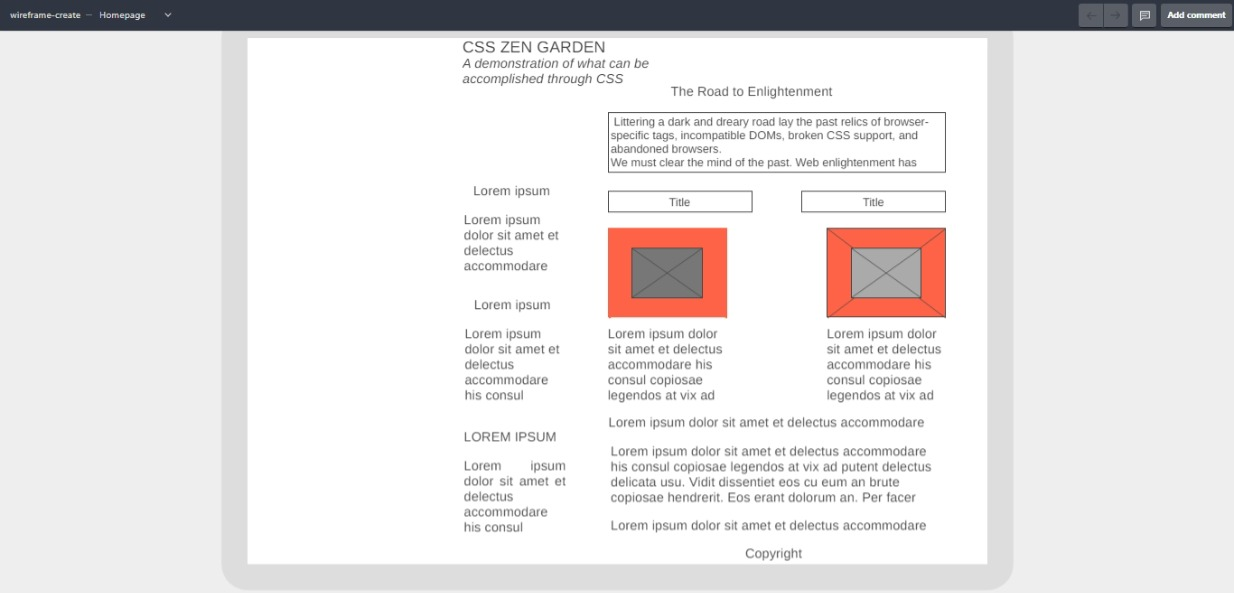
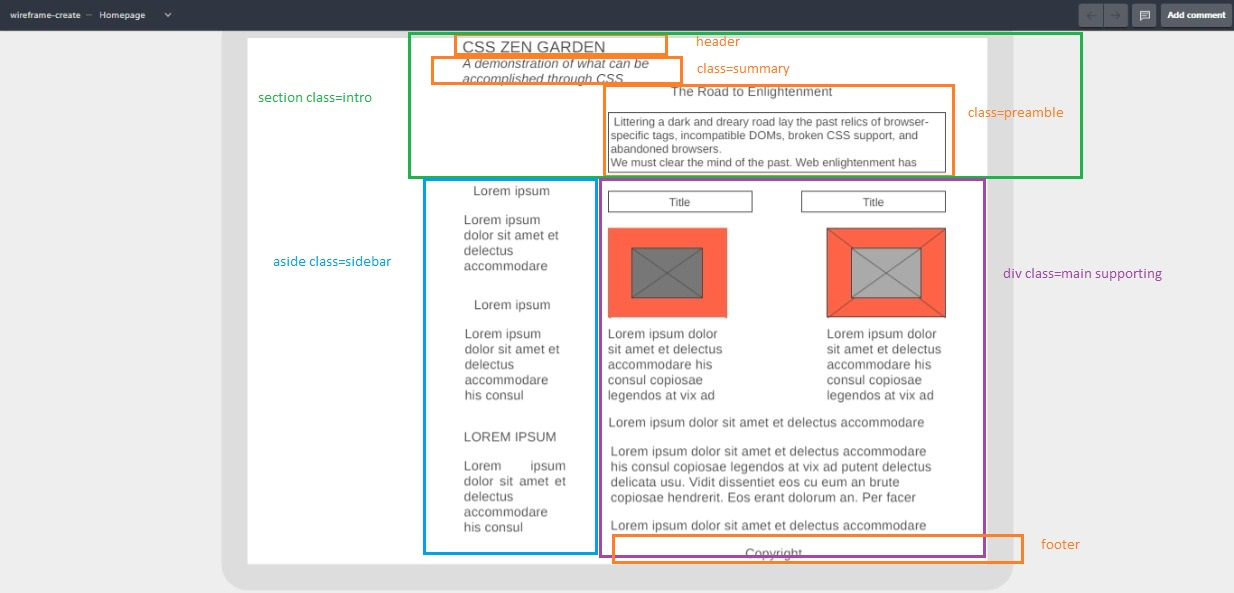
fix small responsive

Changed region(s): [[0.2156, 0.0304, 0.893, 0.9713], [0.8006, 0.4553, 0.9546, 0.4857]]

diff --git a/scss/partials/_layout.scss b/scss/partials/_layout.scss
@@ -5,70 +5,132 @@
     @include breakpoint(large){
     display: grid;
     grid-template-columns: repeat(3, 1fr);
-    width: 80%;
+    width: 100%;
    
     grid-template-areas: "intro intro intro"
                           "sidebar main main";
+                          .intro{
+                            grid-area: intro;
+                            display: grid;
+                            grid-template-columns: repeat(3, 1fr);
+                            grid-template-areas: "header header ."
+                                                  "summary summary ."
+                                                  ". preamble preamble";
+                            &>header{
+                              grid-area: header;
+                              border: 1px solid red;
+                              width: 100%;
+                            }
+                            &>.summary{
+                              grid-area: summary;
+                              border: 1px solid blue;
+                              width: 100%;
+                            }
+                            &>.preamble{
+                              grid-area: preamble;
+                              border: 1px solid green;
+                            }
+                          }
+                          .sidebar{
+                            grid-area: sidebar;
+                          }
+                          .main{
+                            grid-area: main;
+                            display: grid;
+                            grid-template-columns: repeat(2, 1fr);
+                            grid-template-areas: "explanation participation"
+                                                  "benefits requirements"
+                                                  "footer footer";
+                            &.explanation{
+                              grid-area: explanation;
+                            }
+                            &.participation{
+                              grid-area: participation;
+                            }
+                            &.benefits{
+                              grid-area: benefits;
+                            }
+                            &.requirements{
+                              grid-area: requirements;
+                            }
+                            &>footer{
+                              grid-area: footer;
+                              text-align: center;
+                            }
+                          }
+
+
     }
     @include breakpoint(medium){
-      display: block;
+      display: grid;
+      grid-template-columns: 1fr;
+   
+    grid-template-areas: "intro"
+                        "main"
+                        "sidebar";
    
     }
     @include breakpoint(small){
-    display: block;
-    margin-top: 0%;
+    display: grid;
+    grid-template-columns: 1fr;
+   
+    grid-template-areas: "intro"
+                        "main"
+                        "sidebar";
+                        .intro{
+                          grid-area: intro;
+                          display: grid;
+                          grid-template-columns: 1fr;
+                          grid-template-areas: "header"
+                          "summary"
+                          "preamble";
+                          &>header{
+                            grid-area: header;
+                            border: 1px solid red;
+                            width: 100%;
+                          }
+                          &>.summary{
+                            grid-area: summary;
+                            border: 1px solid blue;
+                            width: 100%;
+                          }
+                          &>.preamble{
+                            grid-area: preamble;
+                            border: 1px solid green;
+                          }
+                        }
+                        .sidebar{
+                          grid-area: sidebar;
+                        }
+                        .main{
+                          grid-area: main;
+                          display: grid;
+                          grid-template-columns: 1fr;
+                          grid-template-areas: "explanation"
+                          "participation"
+                                                "benefits"
+                                                "requirements"
+                                                "footer";
+                          &.explanation{
+                            grid-area: explanation;
+                          }
+                          &.participation{
+                            grid-area: participation;
+                          }
+                          &.benefits{
+                            grid-area: benefits;
+                          }
+                          &.requirements{
+                            grid-area: requirements;
+                          }
+                          &>footer{
+                            grid-area: footer;
+                            text-align: center;
+                          }
+                        }
   
     }
   }
-  .intro{
-    grid-area: intro;
-    display: grid;
-    grid-template-columns: repeat(3, 1fr);
-    grid-template-areas: "header header ."
-                          "summary summary ."
-                          ". preamble preamble";
-    &>header{
-      grid-area: header;
-      border: 1px solid red;
-      width: 70%;
-    }
-    &>.summary{
-      grid-area: summary;
-      border: 1px solid blue;
-      width: 70%;
-    }
-    &>.preamble{
-      grid-area: preamble;
-      border: 1px solid green;
-    }
-  }
-  .sidebar{
-    grid-area: sidebar;
-  }
-  .main{
-    grid-area: main;
-    display: grid;
-    grid-template-columns: repeat(2, 1fr);
-    grid-template-areas: "explanation participation"
-                          "benefits requirements"
-                          "footer footer";
-    &.explanation{
-      grid-area: explanation;
-    }
-    &.participation{
-      grid-area: participation;
-    }
-    &.benefits{
-      grid-area: benefits;
-    }
-    &.requirements{
-      grid-area: requirements;
-    }
-    &>footer{
-      grid-area: footer;
-      text-align: center;
-    }
-  }
-
+    
 }
 

diff --git a/css/styles.css b/css/styles.css
@@ -1,73 +1,115 @@
 @supports (display: grid) {
-  .page-wrapper {
-    display: grid;
-    grid-template-columns: repeat(3, 1fr);
-    width: 80%;
-    grid-template-areas: "intro intro intro" "sidebar main main";
+  @media (max-width: 1500px) {
+    .page-wrapper {
+      display: grid;
+      grid-template-columns: repeat(3, 1fr);
+      width: 100%;
+      grid-template-areas: "intro intro intro" "sidebar main main";
+    }
+    .page-wrapper .intro {
+      grid-area: intro;
+      display: grid;
+      grid-template-columns: repeat(3, 1fr);
+      grid-template-areas: "header header ." "summary summary ." ". preamble preamble";
+    }
+    .page-wrapper .intro > header {
+      grid-area: header;
+      border: 1px solid red;
+      width: 100%;
+    }
+    .page-wrapper .intro > .summary {
+      grid-area: summary;
+      border: 1px solid blue;
+      width: 100%;
+    }
+    .page-wrapper .intro > .preamble {
+      grid-area: preamble;
+      border: 1px solid green;
+    }
+    .page-wrapper .sidebar {
+      grid-area: sidebar;
+    }
+    .page-wrapper .main {
+      grid-area: main;
+      display: grid;
+      grid-template-columns: repeat(2, 1fr);
+      grid-template-areas: "explanation participation" "benefits requirements" "footer footer";
+    }
+    .page-wrapper .main.explanation {
+      grid-area: explanation;
+    }
+    .page-wrapper .main.participation {
+      grid-area: participation;
+    }
+    .page-wrapper .main.benefits {
+      grid-area: benefits;
+    }
+    .page-wrapper .main.requirements {
+      grid-area: requirements;
+    }
+    .page-wrapper .main > footer {
+      grid-area: footer;
+      text-align: center;
+    }
   }
   @media (max-width: 800px) {
     .page-wrapper {
-      display: block;
+      display: grid;
+      grid-template-columns: 1fr;
+      grid-template-areas: "intro" "main" "sidebar";
     }
   }
   @media (max-width: 360px) {
     .page-wrapper {
-      display: block;
-      margin-top: 0%;
+      display: grid;
+      grid-template-columns: 1fr;
+      grid-template-areas: "intro" "main" "sidebar";
     }
-  }
-
-  .intro {
-    grid-area: intro;
-    display: grid;
-    grid-template-columns: repeat(3, 1fr);
-    grid-template-areas: "header header ." "summary summary ." ". preamble preamble";
-  }
-  .intro > header {
-    grid-area: header;
-    border: 1px solid red;
-    width: 80%;
-    padding: 5px;
-  }
-  .intro > .summary {
-    grid-area: summary;
-    border: 1px solid blue;
-    width: 80%;
-    padding: 5px;
-    text-align: center;
-  }
-  .intro > .preamble {
-    grid-area: preamble;
-    border: 1px solid green;
-    padding: 5px;
-  }
-
-  .sidebar {
-    grid-area: sidebar;
-    padding: 5px;
-  }
-
-  .main {
-    grid-area: main;
-    display: grid;
-    grid-template-columns: repeat(2, 1fr);
-    grid-template-areas: "explanation participation" "benefits requirements" "footer footer";
-  }
-  .main.explanation {
-    grid-area: explanation;
-  }
-  .main.participation {
-    grid-area: participation;
-  }
-  .main.benefits {
-    grid-area: benefits;
-  }
-  .main.requirements {
-    grid-area: requirements;
-  }
-  .main > footer {
-    grid-area: footer;
-    text-align: center;
+    .page-wrapper .intro {
+      grid-area: intro;
+      display: grid;
+      grid-template-columns: 1fr;
+      grid-template-areas: "header" "summary" "preamble";
+    }
+    .page-wrapper .intro > header {
+      grid-area: header;
+      border: 1px solid red;
+      width: 100%;
+    }
+    .page-wrapper .intro > .summary {
+      grid-area: summary;
+      border: 1px solid blue;
+      width: 100%;
+    }
+    .page-wrapper .intro > .preamble {
+      grid-area: preamble;
+      border: 1px solid green;
+    }
+    .page-wrapper .sidebar {
+      grid-area: sidebar;
+    }
+    .page-wrapper .main {
+      grid-area: main;
+      display: grid;
+      grid-template-columns: 1fr;
+      grid-template-areas: "explanation" "participation" "benefits" "requirements" "footer";
+    }
+    .page-wrapper .main.explanation {
+      grid-area: explanation;
+    }
+    .page-wrapper .main.participation {
+      grid-area: participation;
+    }
+    .page-wrapper .main.benefits {
+      grid-area: benefits;
+    }
+    .page-wrapper .main.requirements {
+      grid-area: requirements;
+    }
+    .page-wrapper .main > footer {
+      grid-area: footer;
+      text-align: center;
+    }
   }
 }
 /* -------------------------------- 
@@ -75,15 +117,8 @@
 xTypography 
 
 -------------------------------- */
-body {
-  font-family:Arial, Helvetica, sans-serif;
-  font-size: 20px;
-  background: linear-gradient(lightblue,white,lightblue);
-}
-
 h1, h2, h3 {
   font-weight: bold;
-  text-decoration: underline;
 }
 
 /*# sourceMappingURL=styles.css.map */
